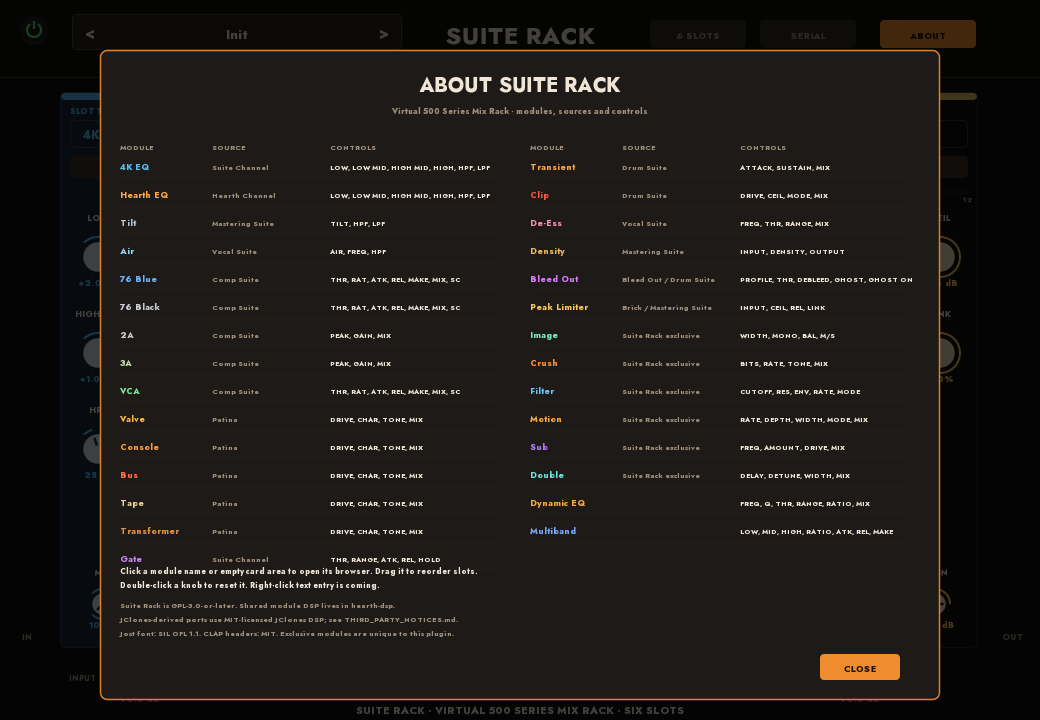
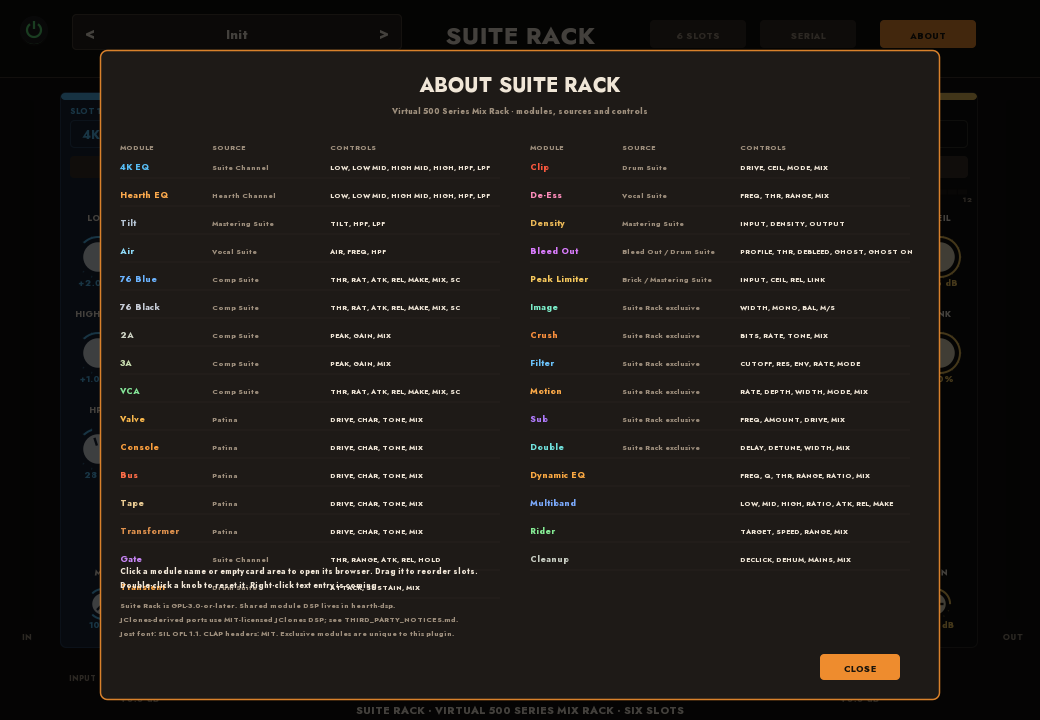
Suite Rack 0.14.0-m2 — Rider and Cleanup modules

diff --git a/src/dsp/engine.hpp b/src/dsp/engine.hpp
@@ -37,6 +37,8 @@ public:
     for (auto& doubler : double_) doubler.prepare(sr_);
     for (auto& dynEq : dynamicEq_) dynEq.prepare(sr_);
     for (auto& multiband : multiband_) multiband.prepare(sr_);
+    for (auto& rider : rider_) rider.prepare(sr_);
+    for (auto& cleanup : cleanup_) cleanup.prepare(sr_);
     input_.setTime(15.0f, sr_);
     output_.setTime(15.0f, sr_);
     power_.setTime(20.0f, sr_);
@@ -69,6 +71,8 @@ public:
       double_[i].setControls(doubleControlsFrom(c.slot[i]));
       dynamicEq_[i].setControls(dynamicEqControlsFrom(c.slot[i]));
       multiband_[i].setControls(multibandControlsFrom(c.slot[i]));
+      rider_[i].setControls(riderControlsFrom(c.slot[i]));
+      cleanup_[i].setControls(cleanupControlsFrom(c.slot[i]));
       slotGain_[i].setTarget(hdsp::dbToGain(c.slot[i].gainDb));
     }
     input_.setTarget(hdsp::dbToGain(c.inputDb));
@@ -168,6 +172,13 @@ public:
             multiband_[s].process(l, r);
             gr = multiband_[s].lastGrDb();
             break;
+          case ModuleId::Rider:
+            rider_[s].process(l, r);
+            gr = rider_[s].lastGrDb();
+            break;
+          case ModuleId::Cleanup:
+            cleanup_[s].process(l, r);
+            break;
           case ModuleId::Count:
             continue;
         }
@@ -220,6 +231,8 @@ public:
     for (auto& doubler : double_) doubler.reset();
     for (auto& dynEq : dynamicEq_) dynEq.reset();
     for (auto& multiband : multiband_) multiband.reset();
+    for (auto& rider : rider_) rider.reset();
+    for (auto& cleanup : cleanup_) cleanup.reset();
     input_.snap();
     output_.snap();
     power_.snap();
@@ -261,6 +274,8 @@ private:
   hdsp::modules::Double double_[kSlotCount];
   hdsp::modules::DynamicEq dynamicEq_[kSlotCount];
   hdsp::modules::Multiband multiband_[kSlotCount];
+  hdsp::modules::Rider rider_[kSlotCount];
+  hdsp::modules::Cleanup cleanup_[kSlotCount];
   hdsp::Smoothed input_, output_, power_;
   hdsp::Smoothed slotGain_[kSlotCount];
 };

diff --git a/src/modules.hpp b/src/modules.hpp
@@ -54,6 +54,8 @@ enum class ControlFormat {
   DynRangeDb,
   DynRatio,
   MakeupDb,
+  RiderTargetDb,
+  RiderSpeedMs,
 };
 
 struct ControlDesc {
@@ -180,6 +182,22 @@ inline constexpr ControlDesc kBleedOutControls[] = {
 inline constexpr const char* kFilterModeLabels[] = {"LP", "BP", "HP"};
 inline constexpr const char* kMotionModeLabels[] = {"Tremolo", "Auto-Pan",
                                                     "Rotary"};
+
+inline constexpr const char* kMainsLabels[] = {"50 Hz", "60 Hz"};
+
+inline constexpr ControlDesc kRiderControls[] = {
+    {0, "TARGET", "Target", ControlFormat::RiderTargetDb},
+    {1, "SPEED", "Speed", ControlFormat::RiderSpeedMs},
+    {2, "RANGE", "Range", ControlFormat::DynRangeDb},
+    {3, "MIX", "Mix", ControlFormat::Percent},
+};
+
+inline constexpr ControlDesc kCleanupControls[] = {
+    {0, "DECLICK", "De-Click", ControlFormat::Percent},
+    {1, "DEHUM", "De-Hum", ControlFormat::Percent},
+    {2, "MAINS", "Mains", ControlFormat::Percent, true, labels(kMainsLabels)},
+    {3, "MIX", "Mix", ControlFormat::Percent},
+};
 
 inline constexpr ControlDesc kDynamicEqControls[] = {
     {0, "FREQ", "Frequency", ControlFormat::FilterCutoffHz},
@@ -379,6 +397,13 @@ inline constexpr ModuleDesc kModules[] = {
      static_cast<int>(sizeof(kMultibandControls) /
                       sizeof(kMultibandControls[0])),
      kMultibandControls},
+    {ModuleId::Rider, "Rider", "Dyn", "Auto-level / vocal rider", false, false,
+     0, static_cast<int>(sizeof(kRiderControls) / sizeof(kRiderControls[0])),
+     kRiderControls},
+    {ModuleId::Cleanup, "Cleanup", "Dyn", "De-click and de-hum", false, false,
+     0,
+     static_cast<int>(sizeof(kCleanupControls) / sizeof(kCleanupControls[0])),
+     kCleanupControls},
 };
 
 static_assert(sizeof(kModules) / sizeof(kModules[0]) == kModuleCount,

diff --git a/src/module_ids.hpp b/src/module_ids.hpp
@@ -37,6 +37,8 @@ enum class ModuleId : int {
   Double,
   DynamicEq,
   Multiband,
+  Rider,
+  Cleanup,
   Count
 };
 
@@ -49,6 +51,7 @@ inline constexpr const char* kModuleLabels[] = {
     "Gate",      "Transient", "Clip",     "De-Ess",   "Density",
     "Bleed Out", "Peak Limiter", "Image", "Crush", "Filter", "Motion",
     "Sub",       "Double",   "Dynamic EQ", "Multiband",
+    "Rider",     "Cleanup",
 };
 
 static_assert(sizeof(kModuleLabels) / sizeof(kModuleLabels[0]) == kModuleCount,
@@ -113,7 +116,8 @@ inline constexpr bool moduleHasGr(int id) noexcept {
   return moduleIsComp(id) || id == static_cast<int>(ModuleId::DynGate) ||
          id == static_cast<int>(ModuleId::DynDeEss) ||
          id == static_cast<int>(ModuleId::BleedOut) ||
-         id == static_cast<int>(ModuleId::Limiter);
+         id == static_cast<int>(ModuleId::Limiter) ||
+         id == static_cast<int>(ModuleId::Rider);
 }
 
 // All controls are normalised to 0..1. The module descriptor maps them to
@@ -323,6 +327,22 @@ constexpr double defaultControlValue(ModuleId id, int control) noexcept {
         case 4: return 0.20;  // Attack
         case 5: return 0.40;  // Release
         case 6: return 0.00;  // Makeup
+        default: return 0.50;
+      }
+    case ModuleId::Rider:
+      switch (control) {
+        case 0: return 0.60;  // Target
+        case 1: return 0.50;  // Speed
+        case 2: return 0.50;  // Range
+        case 3: return 1.00;  // Mix
+        default: return 0.50;
+      }
+    case ModuleId::Cleanup:
+      switch (control) {
+        case 0: return 0.50;  // De-click
+        case 1: return 0.50;  // De-hum
+        case 2: return 0.00;  // Mains 50
+        case 3: return 1.00;  // Mix
         default: return 0.50;
       }
     default:

diff --git a/src/value_text.hpp b/src/value_text.hpp
@@ -194,6 +194,12 @@ inline std::string formatControlValue(const ModuleDesc& module,
     case ControlFormat::MakeupDb:
       std::snprintf(buf, sizeof(buf), "%.1f dB", v * 24.0f);
       return buf;
+    case ControlFormat::RiderTargetDb:
+      std::snprintf(buf, sizeof(buf), "%.1f dB", -40.0f + 40.0f * v);
+      return buf;
+    case ControlFormat::RiderSpeedMs:
+      std::snprintf(buf, sizeof(buf), "%.0f ms", 20.0f * std::pow(50.0f, v));
+      return buf;
   }
   std::snprintf(buf, sizeof(buf), "%.2f", v);
   return buf;
@@ -362,6 +368,10 @@ inline bool parseParamValue(const Shared& shared, uint32_t id,
           case ControlFormat::DynRangeDb: v = v / 24.0; break;
           case ControlFormat::DynRatio: v = (v - 1.0) / 9.0; break;
           case ControlFormat::MakeupDb: v = v / 24.0; break;
+          case ControlFormat::RiderTargetDb: v = (v + 40.0) / 40.0; break;
+          case ControlFormat::RiderSpeedMs:
+            v = std::log(std::max(v, 20.0) / 20.0) / std::log(50.0);
+            break;
           default: break;
         }
       }

diff --git a/src/dsp/module_map.hpp b/src/dsp/module_map.hpp
@@ -130,6 +130,26 @@ inline hdsp::modules::MultibandControls multibandControlsFrom(
   return out;
 }
 
+inline hdsp::modules::RiderControls riderControlsFrom(
+    const SlotControls& c) noexcept {
+  hdsp::modules::RiderControls out;
+  out.target = c.c[0];
+  out.speed = c.c[1];
+  out.range = c.c[2];
+  out.mix = c.c[3];
+  return out;
+}
+
+inline hdsp::modules::CleanupControls cleanupControlsFrom(
+    const SlotControls& c) noexcept {
+  hdsp::modules::CleanupControls out;
+  out.declick = c.c[0];
+  out.dehum = c.c[1];
+  out.mains = c.c[2] > 0.5f ? 1 : 0;
+  out.mix = c.c[3];
+  return out;
+}
+
 inline hdsp::modules::SubControls subControlsFrom(
     const SlotControls& c) noexcept {
   hdsp::modules::SubControls out;

diff --git a/src/ui/panel.cpp b/src/ui/panel.cpp
@@ -138,6 +138,12 @@ ModuleStyle styleFor(int type) {
     case ModuleId::Multiband:
       return {{0.08, 0.12, 0.23}, {0.18, 0.26, 0.48},
               {0.48, 0.66, 0.98}, {0.86, 0.90, 0.96}};
+    case ModuleId::Rider:
+      return {{0.10, 0.18, 0.12}, {0.20, 0.36, 0.24},
+              {0.52, 0.92, 0.58}, {0.86, 0.93, 0.87}};
+    case ModuleId::Cleanup:
+      return {{0.14, 0.14, 0.13}, {0.30, 0.30, 0.28},
+              {0.78, 0.80, 0.76}, {0.89, 0.89, 0.86}};
     default:
       return {{0.105, 0.10, 0.095}, {0.24, 0.22, 0.19},
               {0.55, 0.50, 0.44}, {0.72, 0.70, 0.66}};

diff --git a/test/ui_preview.cpp b/test/ui_preview.cpp
@@ -59,6 +59,11 @@ int main(int argc, char** argv) {
   state.selectedSlot = 2;
   panel.draw(cr, s, state);
   cairo_surface_write_to_png(surf, (out + "/rack-dyn.png").c_str());
+  applyModuleDefaults(s, 2, static_cast<int>(ModuleId::Rider));
+  applyModuleDefaults(s, 3, static_cast<int>(ModuleId::Cleanup));
+  state.selectedSlot = 2;
+  panel.draw(cr, s, state);
+  cairo_surface_write_to_png(surf, (out + "/rack-rider.png").c_str());
   state.aboutOpen = true;
   panel.draw(cr, s, state);
   cairo_surface_write_to_png(surf, (out + "/rack-about.png").c_str());

diff --git a/test/test_dsp.cpp b/test/test_dsp.cpp
@@ -146,6 +146,8 @@ int main() {
         static_cast<int>(ModuleId::Double),
         static_cast<int>(ModuleId::DynamicEq),
         static_cast<int>(ModuleId::Multiband),
+        static_cast<int>(ModuleId::Rider),
+        static_cast<int>(ModuleId::Cleanup),
     };
     for (int id : ids) {
       Engine e;

diff --git a/src/version.hpp b/src/version.hpp
@@ -4,7 +4,7 @@
 
 namespace rack {
 constexpr int kVersionMajor = 0;
-constexpr int kVersionMinor = 13;
+constexpr int kVersionMinor = 14;
 constexpr int kVersionMicro = 0;
-constexpr const char* kVersion = "0.13.0-m2";
+constexpr const char* kVersion = "0.14.0-m2";
 } // namespace rack

diff --git a/README.md b/README.md
@@ -1,6 +1,6 @@
 # Suite Rack
 
-**Status: 0.13.0-m2 — CLAP + LV2, module registry, twenty-nine modules and drag reorder.**
+**Status: 0.14.0-m2 — CLAP + LV2, module registry, thirty-one modules and drag reorder.**
 The rest of the catalog, drag/reorder, module presets, browser search and user
 presets are next.
 
@@ -34,6 +34,8 @@ standalone plugins remain the full versions.
 ![Suite Rack — Sub and Double](docs/rack-sub.png)
 
 ![Suite Rack — Dynamic EQ and Multiband](docs/rack-dyn.png)
+
+![Suite Rack — Rider and Cleanup](docs/rack-rider.png)
 
 ![Suite Rack — About](docs/rack-about.png)
 
@@ -74,7 +76,7 @@ standalone plugins remain the full versions.
 Suite tools (spectral editor, De-Clip, De-Reverb, De-Noise). Those do not fit
 the 500-series format; Cleanup is the lightweight repair representative.
 
-## Current 0.13.0-m2 slice
+## Current 0.14.0-m2 slice
 
 - 1040×720 panel with the Comp Suite-family header: power, preset bar, centered
   title, utility pills.
@@ -93,7 +95,7 @@ the 500-series format; Cleanup is the lightweight repair representative.
 - **Available modules:** 4K EQ, Hearth EQ, Tilt, Air, 76 Blue, 76 Black, 2A,
   3A, VCA, Valve, Console, Bus, Tape, Transformer, Gate, Transient, Clip and
   De-Ess, Density, Bleed Out, Peak Limiter, Image, Crush, Filter, Motion, Sub,
-  Double, Dynamic EQ and Multiband.
+  Double, Dynamic EQ, Multiband, Rider and Cleanup.
 - Serial engine and per-slot meters in place; DSP and panel tests pass.
 - **CLAP and LV2 builds** load in REAPER with the six-column editor and process
   audio.

diff --git a/CHANGELOG.md b/CHANGELOG.md
@@ -1,5 +1,11 @@
 # Changelog
 
+## 0.14.0-m2 — 2026-11-17
+
+- Added Rider: target, speed, range and mix.
+- Added Cleanup: de-click, de-hum, 50/60 Hz mains and mix.
+- Rider and Cleanup live in hearth-dsp and are consumed through the submodule.
+
 ## 0.13.0-m2 — 2026-11-17
 
 - Added Dynamic EQ: frequency, Q, threshold, range, ratio and mix.
